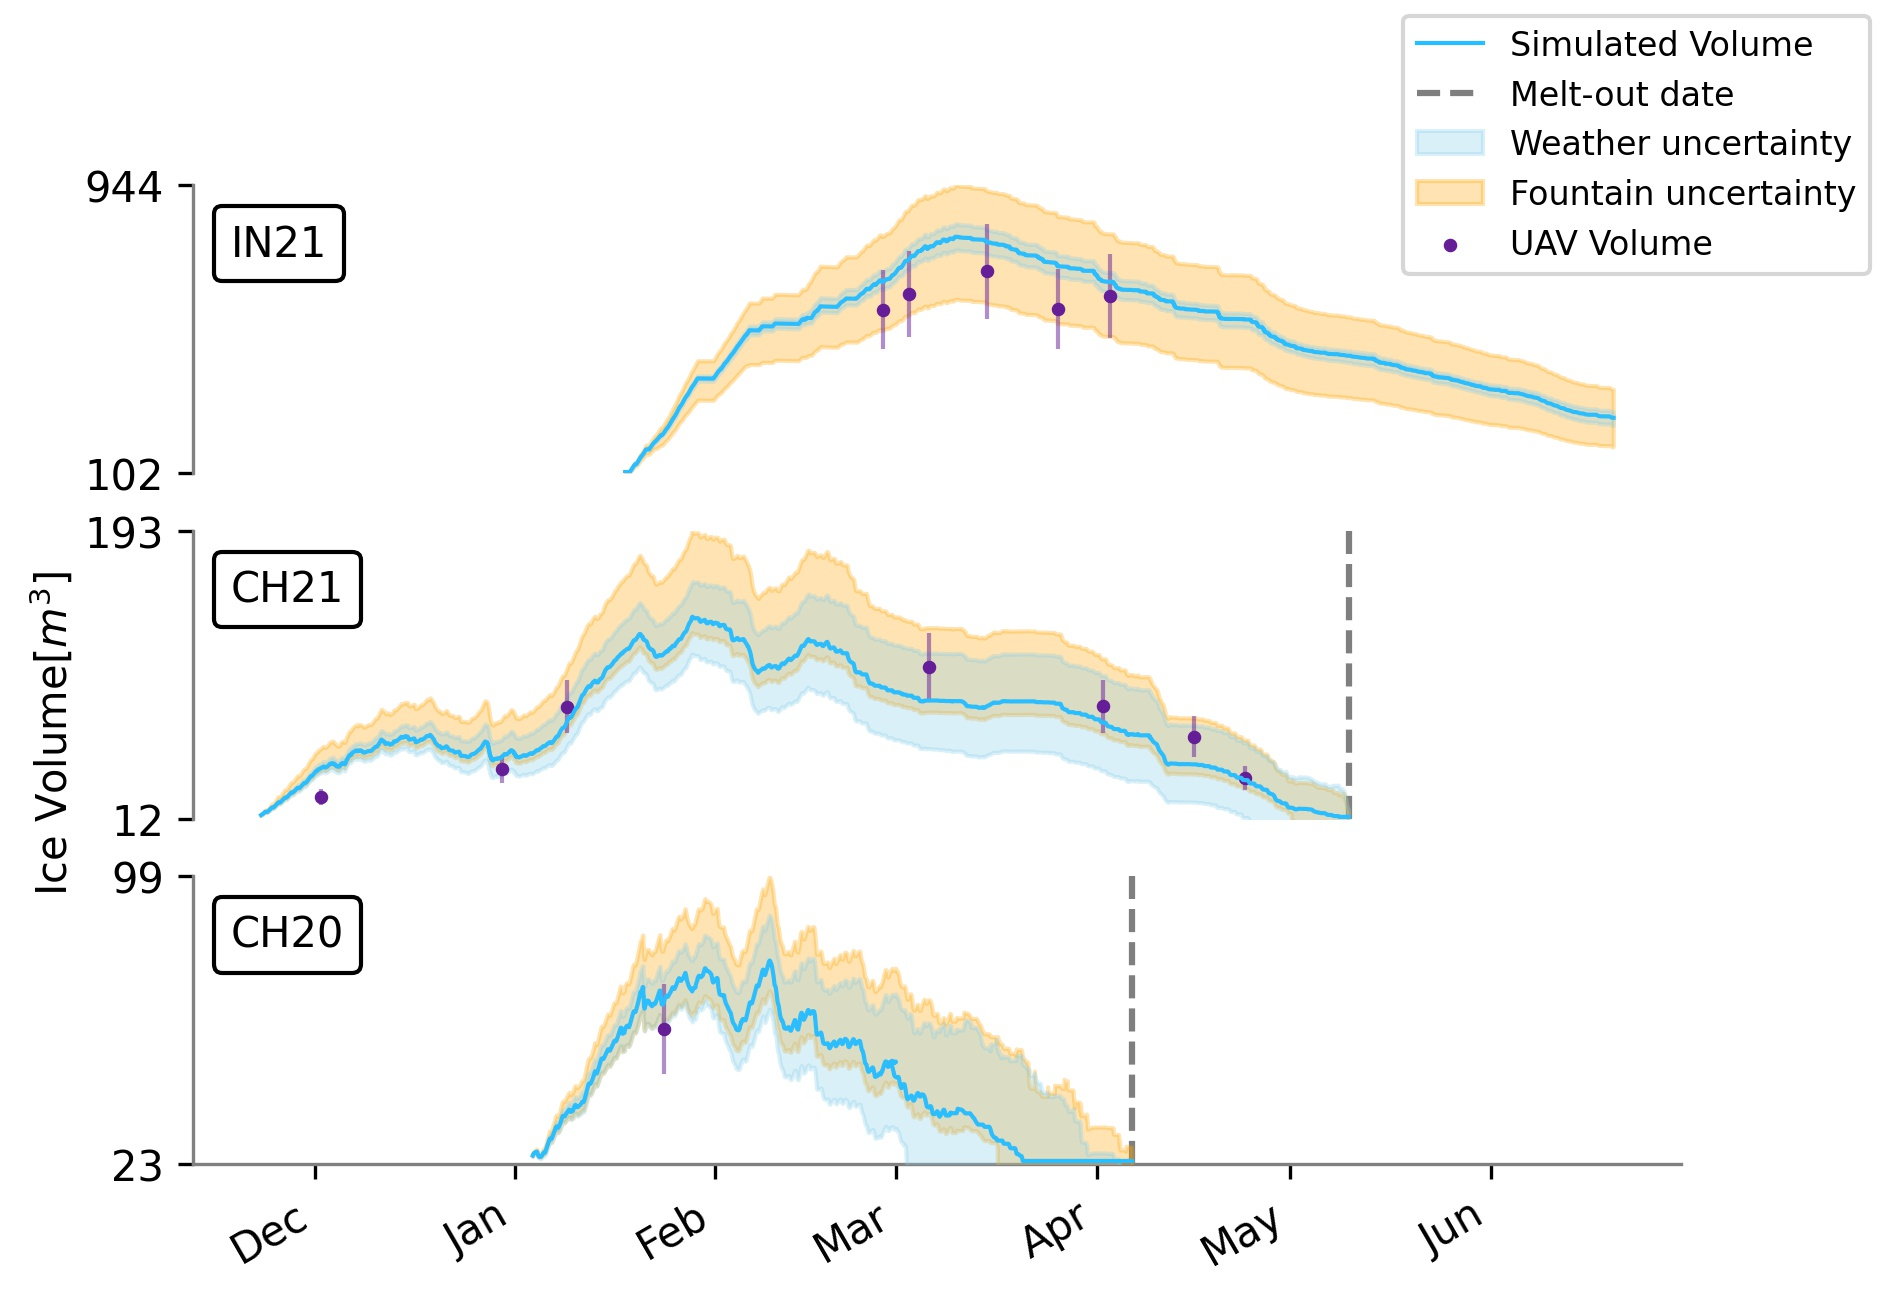
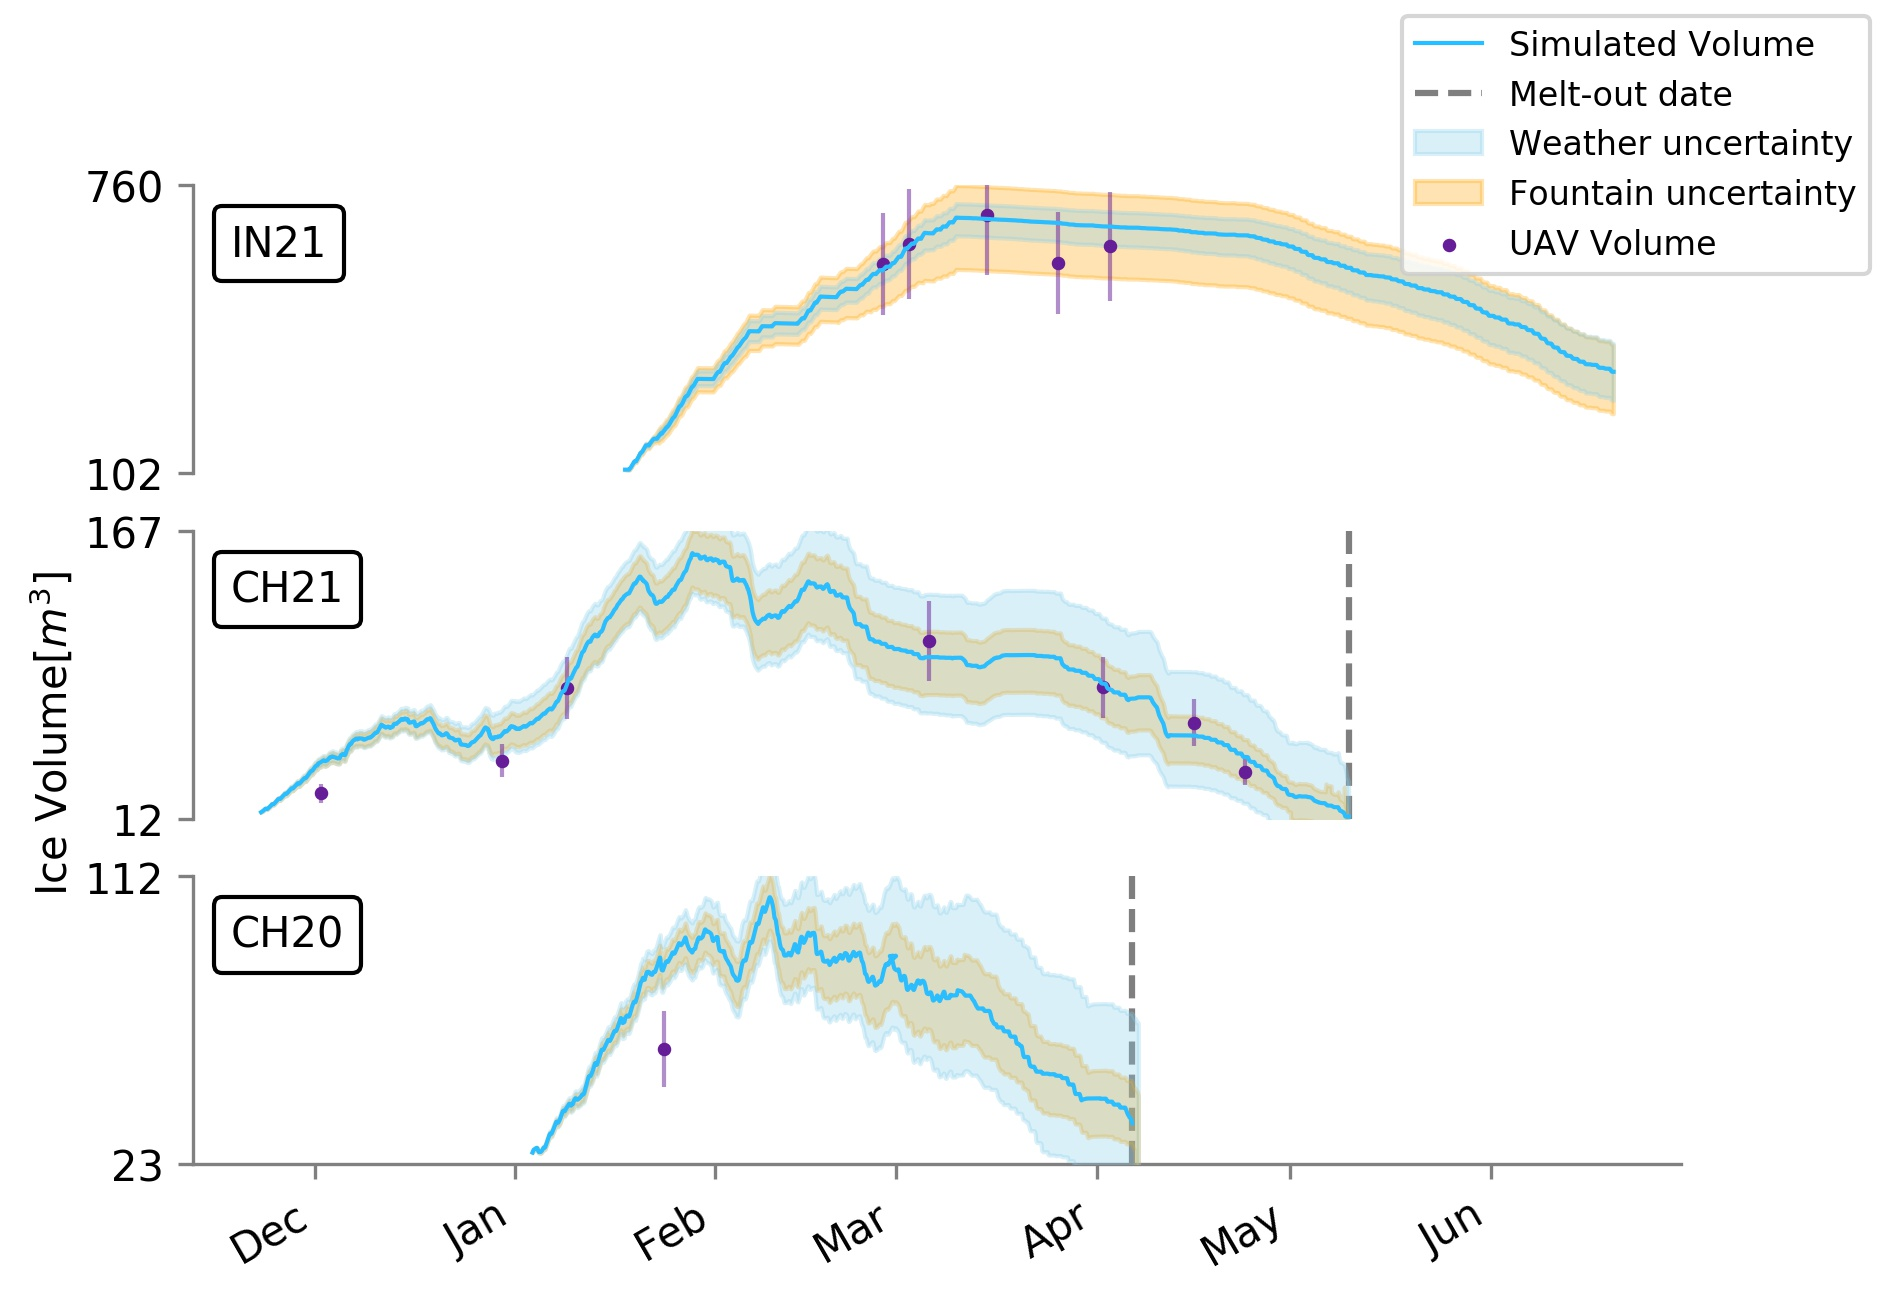
Update figs

diff --git a/air.tex b/air.tex
@@ -689,9 +689,9 @@ fountain forcing data. Significant uncertainty exists in the weather forcing dat
 radiation measurements ($SW_{direct}, SW_{diffuse}, LW_{in}$) since they were taken from ERA5 dataset or an AWS
 far away from the construction sites. But we are not accounting for uncertainties related to meteorological
 forcing data in this analysis. Uncertainty in the fountain forcing data arises due to only some fountain
-parameters listed in \ref{tab:parameters}. Fountain runtime $t_F$ has no uncertainty for the Swiss AIRs because
-no interruptions occured during the study period. However, significant uncertainty exists for the IN21 AIR ,
-where the interruptions due to pipeline freezing events happened overnight but this was ignored in this
+parameters listed in Table \ref{tab:parameters}. Fountain runtime $t_F$ has no uncertainty for the Swiss AIRs
+because no interruptions occured during the study period. However, significant uncertainty exists for the IN21
+AIR , where the interruptions due to pipeline freezing events happened overnight but this was ignored in this
 analysis. Fountain spray radius $r_F$ was measured using the drone survey and therefore also doesn't contribute
 to model uncertainty. The choice of $d_F$ for both sites was just a best guess, based on few observations made
 by the flowmeter. So we associate this parameter by a large uncertainty of $\pm \,50\, \%$. For the fountain
@@ -700,7 +700,7 @@ beyond this range considering winter conditions at all the sites. The model stru
 through the spatial and temporal hyperparameters $\Delta x$ and $\Delta t$. We fix the temporal resolution of
 the model at hourly timesteps and only investigate the uncertainty caused by $\Delta x$ here. Since the surface
 layer thickness for an AIR does not resemble to any parameter in the glaciological literature, we atrribute a
-wide range of values for it. The model parameters are henceforth called as weather parameters to distinguish
+wide range of values for it (from 1 cm to 10 cm). The model parameters are henceforth called as weather parameters to distinguish
 them from the fountain forcing parameters. These were fixed within a range based on literature values (see Table
 \ref{tab:parameters}). 
 
@@ -709,12 +709,18 @@ fountain forcing parameters $Q^F = [Q_{d_F}, Q_{T_F}]$ and weather parameters $Q
 Q_{z_0}, Q_{\alpha_{ice}}, Q_{\alpha_{snow}}, Q_{T_{ppt}}, Q_{\tau}]$. Together, these 9 parameters cause a
 large uncertainty in the ice volume estimates. In order to reduce this uncertainty, we perform a global
 sensitivity analysis with the net water loss as our objective and categorise the uncertain parameters as
-sensitive and insensitive based on their total-order sensitivity.   
+sensitive and insensitive based on their total-order sensitivity $S_{T_{j}}$ (defined in \ref{sec:uncertainpy}.
+The focus of this sensitivity analysis was not on the absolute sensitivity towards single parameters, but rather
+to reduce the dimension of the parameter space. Therefore, the following discussion was limited to two classes:
+parameters to which the model was sensitive ($S_{T_{j}} > 0.5$) and non-sensitive ($S_{T_{j}} \leq 0.5$).
+
+Later, the sensitive model parameters were calibrated based on the root mean squared error (RMSE) between the
+drone surveys (see Table \ref{tab:uav}) and the model estimations of the ice volume. Then, the model uncertainty
+was quantified separately for the remaining parameters in $Q^M, Q^F$ and $Q^W$.
 
 
-The sensitivity analysis and calibration was carried out for the CH21 and IN21 AIRs and the CH20 AIR was used for
-validation of the model.
-
+% The sensitivity analysis and calibration was carried out with the drone surveys of CH21 and IN21 AIRs and the
+% CH20 AIR drone surveys were used for validation of the model.
 
 \begin{table}[h!]
 	\caption{Free parameters in the model categorised as constant and uncertain parameters. The ranges of the 8 weather parameters used in the sensitivity and uncertainty analysis.}
@@ -774,72 +780,46 @@ validation of the model.
 
 \section{Results}
 
-\subsection{Sensitivity analysis}
+\begin{figure}
+	\begin{center}
+		\includegraphics[width=\linewidth]{Figures/Figure_5.jpg}
+	\end{center}
+	\caption{Observed ranges of the sensitive parameters used in the model optimization, shown by
+		plotting the frequency distribution of the parameter values for the best 10 \% of the model runs for each
+		objective. }
+	\label{fig:param_hist}
+\end{figure}
 
-The focus of the sensitivity analysis was not on the absolute sensitivity towards single parameters, but rather
-to reduce the dimension of the parameter space. Therefore, the following discussion was limited to two classes:
-parameters to which the model was sensitive ($S_{T_{i}} > 0.2$) and non-sensitive ($S_{T_{i}} \leq 0.2$). The
-threshold of 0.2 was chosen since most of the parameters were bounded by it. For all the AIRs, just three
-parameters were sensitive namely, $z_{0}$, $A_{corr}$ and $\Delta x$.
 
-% \begin{figure}
-% 	\begin{center}
-% 		\includegraphics[width=\linewidth]{Figures/Figure_5.jpg}
-% 	\end{center}
-% 	\caption{Observed ranges of the sensitive parameters used in the model optimization, shown by
-% 		plotting the frequency distribution of the parameter values for the best 10 \% of the model runs for each
-% 		objective. }
-% 	\label{fig:param_hist}
-% \end{figure}
+\subsection{Calibration of sensitive parameters}
 
-\subsection{Calibration}
+The total-order sensitivities of all the 9 parameters with respect to the net water loss objective are shown in
+Fig. \ref{fig:param_hist} (a) . In total, global sensitivity analysis required 1432 model runs to determine these
+sensitivities for each site. The only sensitive parameter ($S_{T_{j}} > 0.5$) was the surface layer thickness.
+The RMSE between the drone surveys and the model ice volume estimates for different surface layer thickness are
+shown in \ref{fig:param_hist} (b). The optimum value of $\Delta x$ for was found to be 45 $mm$ and 65 $mm$  for
+CH21 and IN21 AIRs respectively.
 
-The sensitive model parameters were calibrated based on two objectives, namely, the RMSE between the drone
-surveys (see Table \ref{tab:uav}) and the model estimations of the ice volume and area. For calibration, the three sensitive
-parameters namely, surface roughness, area correction factor and surface layer thickness were varied across
-their ranges (defined in Table \ref{tab:parameters}) in steps of $1 \, mm$, 0.1 and $5 \, mm$ respectively. In
-total, 495 model calibration runs were required for each of the objective. The frequency distribution of RMSE
-among the best 10 \% calibration runs for each objective are shown in Fig.  \ref{fig:param_hist}. We choose values of
-sensitive parameters populating more than 50 \% of the possibilities among the best 10 \% of the calibration
-runs. For the volume objective, the RMSE of the best calibration runs ranged from 26 $m^3$ to 58 $m^3$ for the
-IN21 and from 10 $m^3$ to 16 $m^3$ for the CH21. For the area objective, the RMSE of the best calibration runs
-ranged from 14 $m^2$ to 53 $m^2$ for the IN21 and from 28 $m^2$ to 40 $m^2$ for the CH21. Note that this
-calibration process has an inherent temporal and spatial bias due to the choice of when and how many drone
-surveys were possible in each location. Among the 5 surveys of IN21 AIR used for calibration, most of them were
-conducted around early March when the AIR volume was near its maximum whereas the 7 surveys of the CH21 location
-were more evenly spaced out in comparison (see Table \ref{tab:uav}).
+% The model surface layer thickness was selected based on the two conditions described in Section \ref{sec:energy}.
+% Since the minimum surface temperature does not go below $-30 \, \degree C$ (satisfies (b)) for the smallest
+% possible thickness of $20\, mm$ (satisfies (a)), we have taken this as the model surface layer thickness.
 
-$A_{corr}$ shows different preferences whereas the other two parameters show similar preference for the two
-objectives. We expect the measured surface area of the AIRs to be higher than the modelled ice area due to
-the additional surface area caused by its various ice features. Particularly, we expect the IN21 surface area
-correction factor to be higher than that of CH21 AIR because the IN21 surface area represented the
-area of two ice cones merged into one (see Fig.  \ref{fig:2AIR}). This hypothesis is supported by the disjoint
-frequency distribution of the area objective of the CH21 and IN21 AIR. Hence, we calibrated the IN21 area
-correction factor to 1.5. Since no strong preference was observed for the CH21 area correction factor, we
-calibrated it to the median of the values it assumed in the area objective, namely, 1.2.
 
-The model surface layer thickness was selected based on the two conditions described in Section \ref{sec:energy}.
-Since the minimum surface temperature does not go below $-30 \, \degree C$ (satisfies (b)) for the smallest
-possible thickness of $20\, mm$ (satisfies (a)), we have taken this as the model surface layer thickness.
-
-For the surface roughness, no clear preference was observed for the IN21 AIR, so we calibrated it to the median
-value of $3 \, mm$. For the CH21 AIR, it was assigned its preferred value of $1 \, mm$.
-
-\subsection{Weather and fountain uncertainty analysis}
+\subsection{Weather and fountain forcing uncertainty quantification}
 
 The uncertainty in the ice volume estimates caused by the insensitive weather and fountain parameters are shown
-in Fig. \ref{fig:results}. The ranges highlighted represent the 90 \% prediction interval of the ice volume
-estimates. Weather uncertainty determination required 254 simulations whereas fountain uncertainty determination
-required 200 simulations.
+in Fig. \ref{fig:results}. The ranges highlighted represent the $90\,\%$ prediction interval (defined in Appendix
+\ref{sec:uncertainpy}) of the ice volume estimates. Weather uncertainty determination required 422 simulations
+whereas fountain uncertainty determination required 32 simulations.
 
-Weather uncertainty for IN21 was low compared to the other AIRs since precipitation and the associated variation in
-albedo was negligible. This was expected since 4 out of the 5 insensitive parameters were part of the albedo module.
-The remaining parameter, ice emissivity, caused the most variance in the ice volume estimate among all the
-insensitive parameters ($S_{T_{i}} = 0.7$).
+Weather uncertainty for IN21 was low compared to the other AIRs since precipitation and the associated variation
+in albedo was negligible. This was expected since 4 out of the 5 insensitive weather parameters were part of the
+albedo module. The remaining parameter, ice emissivity, caused the most variance in the ice volume estimate
+among all the insensitive parameters ($S_{T_{\epsilon_{ice}}} = 0.7$).
 
-Fountain uncertainty for all the AIRs was high illustrating the importance of quantifying the fountain parameters for
-a confident ice volume estimation. Among the 3 fountain parameters, ice volume variation was caused predominantly
-by the uncertainty in the spray radius ($S_{T_{i}} = 0.8$).
+Fountain forcing uncertainty for all the AIRs was high illustrating the importance of quantifying the fountain parameters for
+a confident ice volume estimation. Among the 2 fountain parameters, ice volume variation was caused predominantly
+by the uncertainty in the fountain's water temperature ($S_{T_{T_F}} = 0.8$).
 
 \begin{figure}
 	\begin{center}
@@ -849,7 +829,6 @@ by the uncertainty in the spray radius ($S_{T_{i}} = 0.8$).
 		orange) represent the 90\% prediction interval of the AIR ice volume caused by the variations in weather and
     the fountain parameters, respectively. Violet points indicate the drone ice volume observations.  The grey
   dashed line represents the observed melt-out date for each AIR.  }
-
 	\label{fig:results}
 \end{figure}
 
@@ -1057,6 +1036,12 @@ on the weather aspects of the model.
 
 \section{Discussion}
 
+Note that this calibration
+process has an inherent temporal and spatial bias due to the choice of when and how many drone surveys were
+possible in each location. Among the 5 surveys of IN21 AIR used for calibration, most of them were conducted
+around early March when the AIR volume was near its maximum whereas the 7 surveys of the CH21 location were more
+evenly spaced out in comparison (see Table \ref{tab:uav}).
+
 \subsection{Water losses of AIRs}
 
 The net water losses of IN21 and CH21 AIR were $78\,\%$ and $77\,\%$ of the total mass input, respectively. The
@@ -1091,6 +1076,8 @@ results in a slower thickness decay rate.  Hence, for AIRs with similar fountain
 with lower cloudiness, lower mean winter temperature to augment freezing rates and locations with lower humidity
 to dampen melting rates.
 
+\subsection{Spray Radius determination}
+\subsection{Area error}
 
 \section{Conclusions}
 
